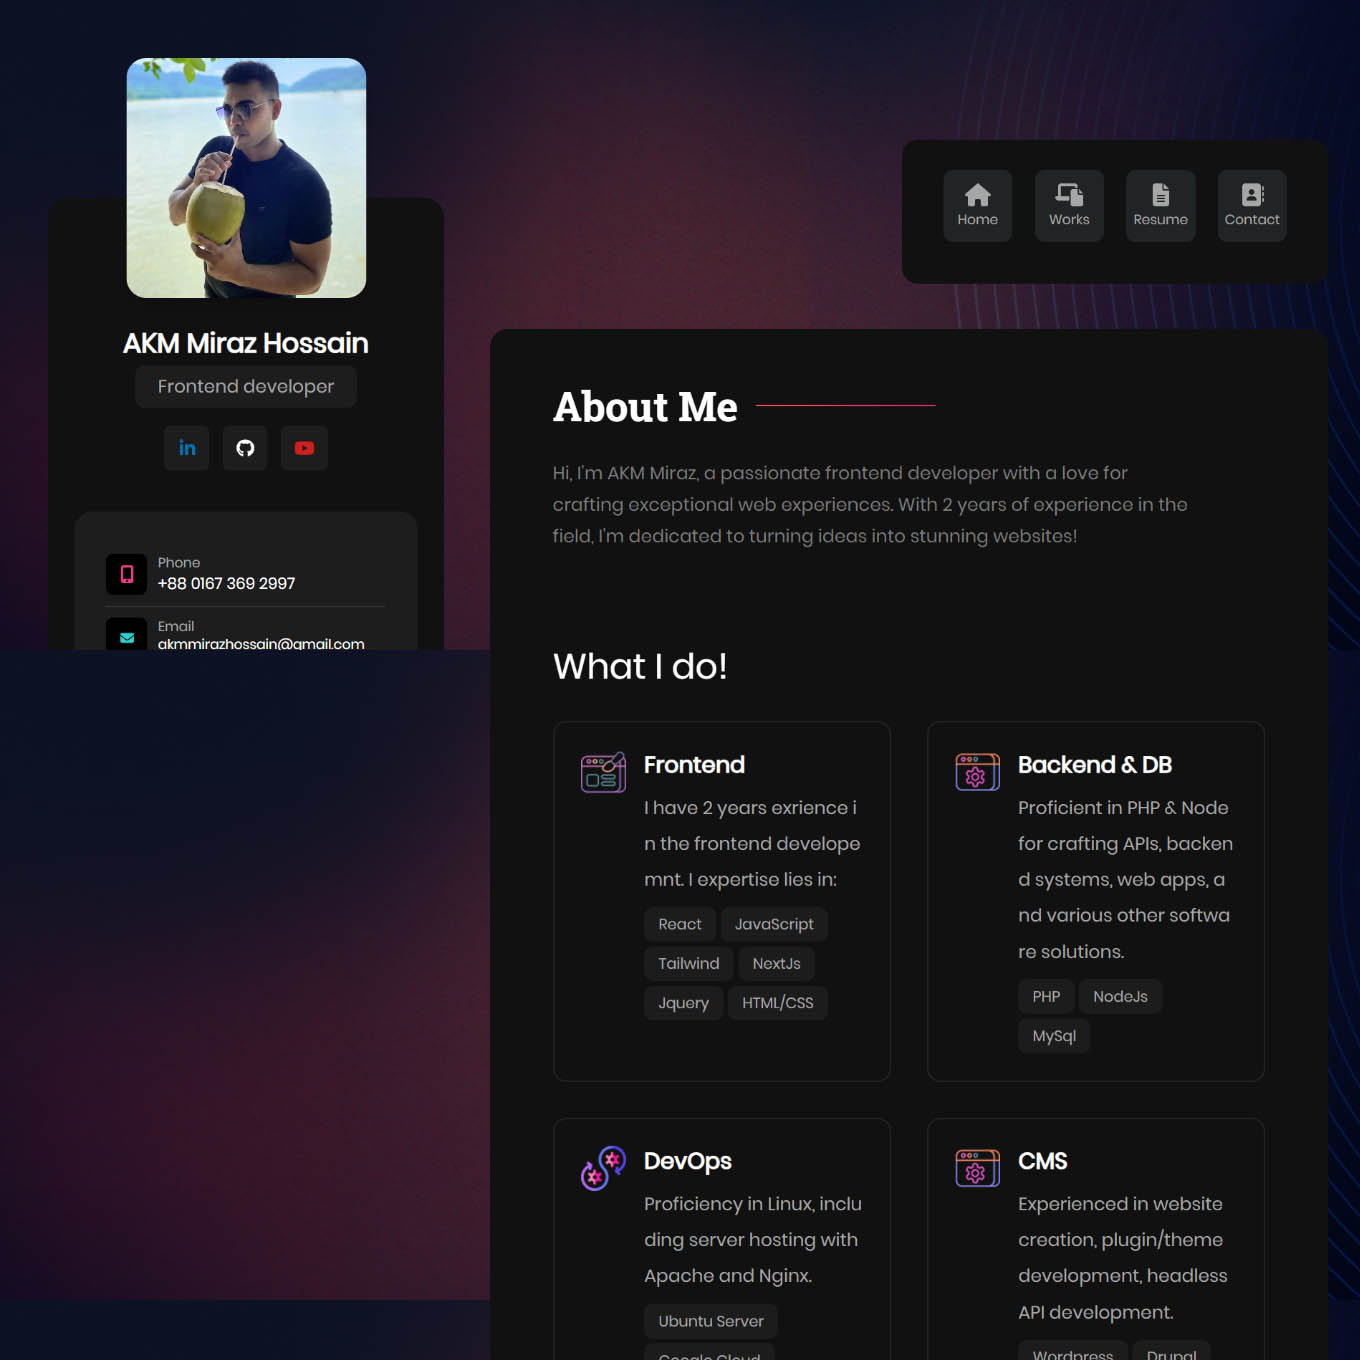
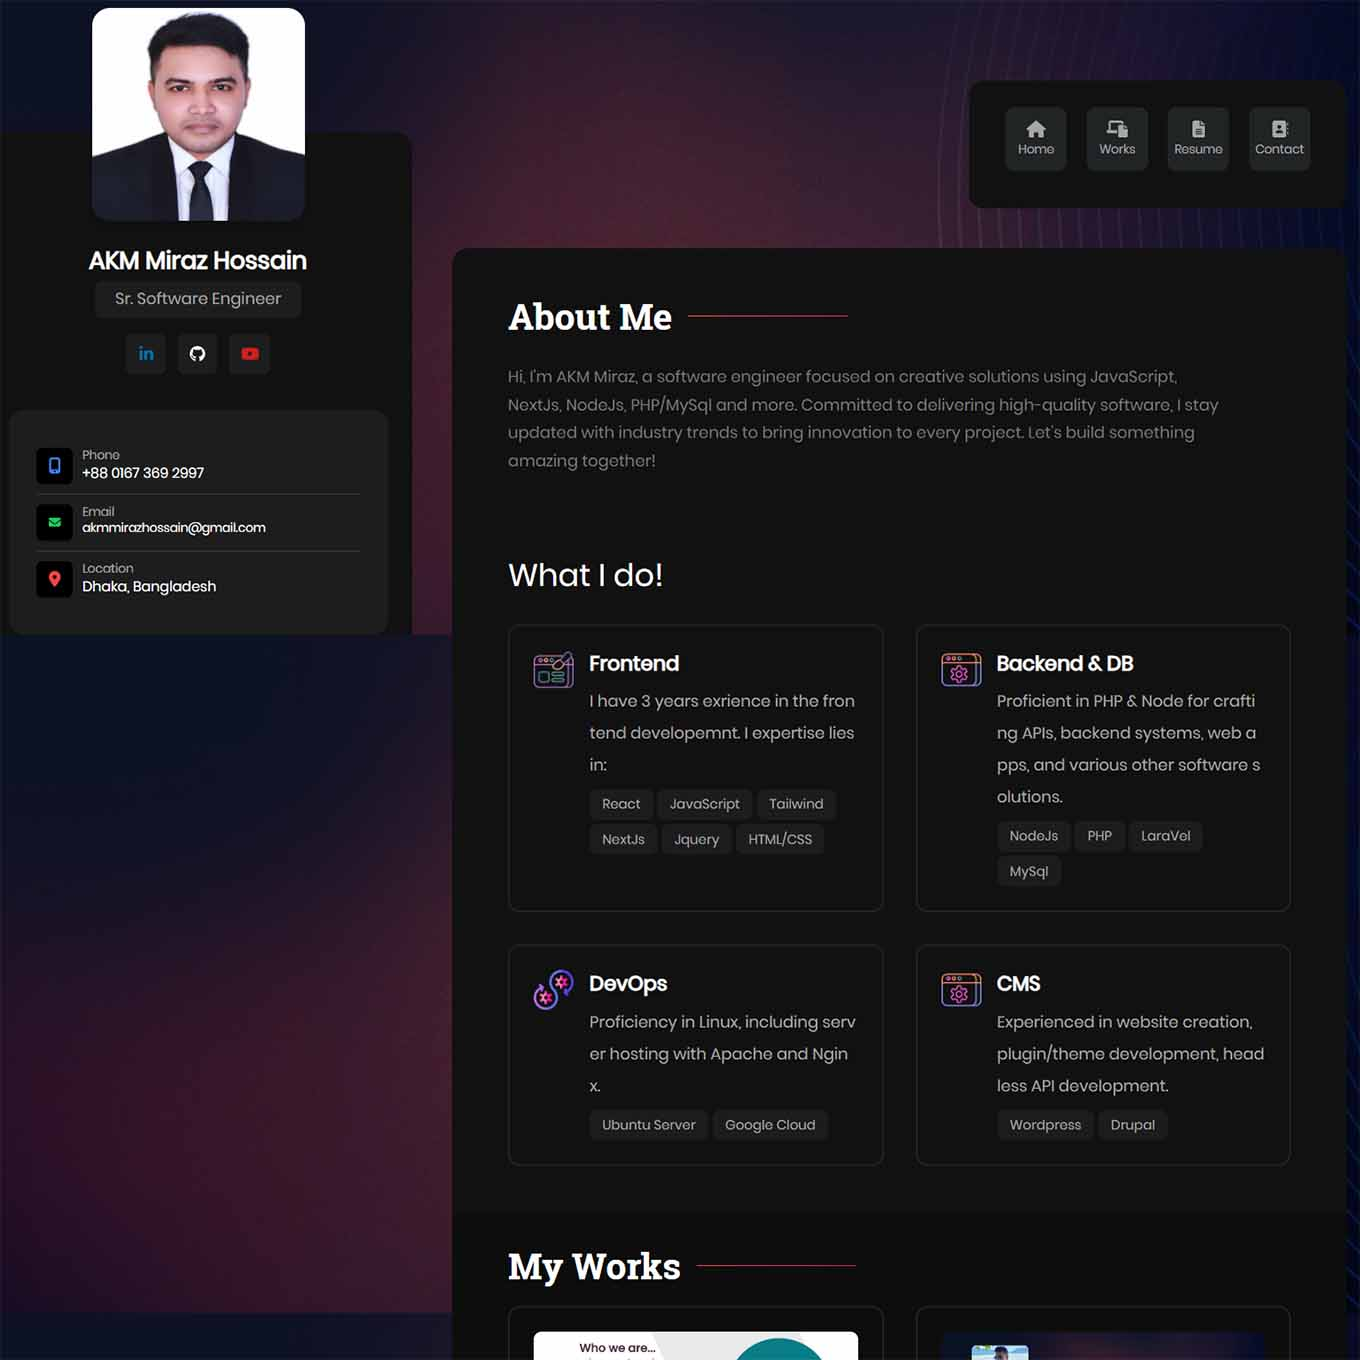
DP update

diff --git a/components/layout.js b/components/layout.js
@@ -77,14 +77,14 @@ export default function Layout({ children, home }) {
                 alt="My Image"
                 width={500}
                 height={300}
-                className="w-[240px] absolute left-[50%] transform -translate-x-[50%] h-[240px] drop-shadow-xl mx-auto rounded-[20px] -mt-[140px]"
+                className="w-[240px] absolute left-[50%] transform -translate-x-[50%] h-[267px] drop-shadow-xl mx-auto rounded-[20px] -mt-[140px]"
               />
               <div className="pt-[100px] pb-8 ">
-                <p className="mt-6 mb-1 text-2xl font-semibold text-white">
+                <p className="mt-12 mb-1 text-2xl font-semibold text-white">
                   AKM Miraz Hossain
                 </p>
                 <p className="mb-4 inline-block bg-[#1D1D1D] px-5 py-1.5 rounded-lg text-[#A6A6A6] ">
-                  Frontend developer
+                  Sr. Software Engineer
                 </p>
                 <div className="flex justify-center space-x-3">
                   <a
@@ -272,10 +272,12 @@ export default function Layout({ children, home }) {
                     <div className="col-span-12 space-y-2.5">
                       <div className="lg:mr-16">
                         <p className="leading-7 text-gray-lite text-[#7B7B7B]">
-                          Hi, I'm AKM Miraz, a passionate frontend developer
-                          with a love for crafting exceptional web experiences.
-                          With 2 years of experience in the field, I'm dedicated
-                          to turning ideas into stunning websites!
+                          Hi, I'm AKM Miraz, a software engineer focused on
+                          creative solutions using JavaScript, NextJs, NodeJs,
+                          PHP/MySql and more. Committed to delivering
+                          high-quality software, I stay updated with industry
+                          trends to bring innovation to every project. Let's
+                          build something amazing together!
                         </p>
                       </div>
                     </div>
@@ -300,7 +302,7 @@ export default function Layout({ children, home }) {
                         Frontend
                       </h3>
                       <p className=" leading-8 text-gray-lite text-[#A6A6A6]">
-                        I have 2 years exrience in the frontend developemnt. I
+                        I have 3 years exrience in the frontend developemnt. I
                         expertise lies in:
                       </p>
                       <div className="flex flex-wrap justify-start gap-1">
@@ -334,8 +336,9 @@ export default function Layout({ children, home }) {
                       </p>
 
                       <div className="flex flex-wrap justify-start gap-1">
-                        <ButtonSkills title="PHP" />
                         <ButtonSkills title="NodeJs" />
+                        <ButtonSkills title="PHP" />
+                        <ButtonSkills title="LaraVel" />
                         <ButtonSkills title="MySql" />
                       </div>
                     </div>
@@ -404,7 +407,7 @@ export default function Layout({ children, home }) {
                       <div className="overflow-hidden rounded-lg ">
                         <Image
                           src={`/images/demoss/${item.image}`}
-                          alt="wadwa"
+                          alt=""
                           width={0}
                           height={0}
                           sizes="100vw"
@@ -480,7 +483,9 @@ export default function Layout({ children, home }) {
                       <span className="text-xs text-[#b7b7b7]">
                         2023 - Present
                       </span>
-                      <h3 className="text-xl text-white">Frontend Developer</h3>
+                      <h3 className="text-xl text-white">
+                        Sr. Software Engineer
+                      </h3>
                       <p className="text-[#b7b7b7] text-sm">
                         Line Reflection Ltd.
                       </p>
